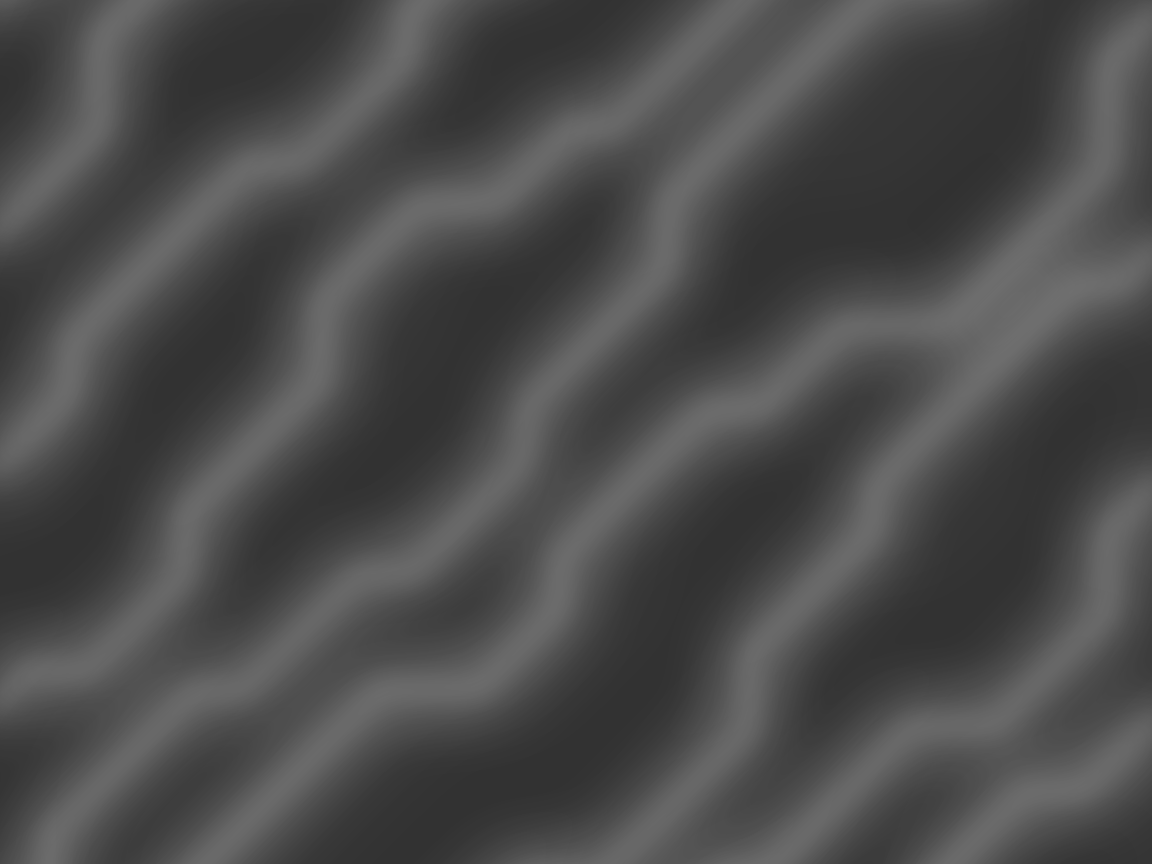
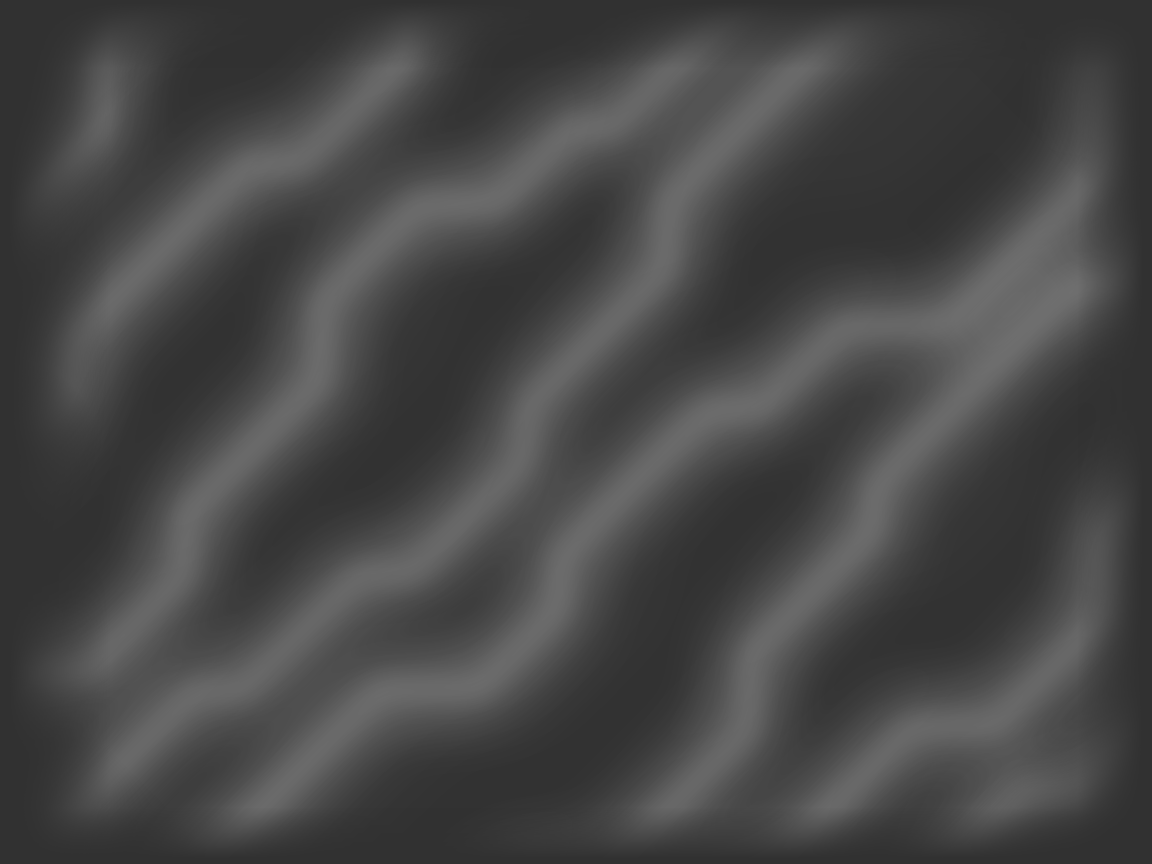
fixed background

diff --git a/lib/tile.js b/lib/tile.js
@@ -200,24 +200,17 @@ Carre.Tile = {
    * @return void
    */
   drawBackdrop : function(x, y) {
-    /*
-    if (x < 0) {
-      x = 0;
-    }
-    if (y < 0) {
-      y = 0;
-    }
-    */
     if (Carre.settings.quality === "HQ") {
-      for (var i = 0; i < this.backdrop.length; i++) {
-        Carre.c.drawImage(this.backdrop[i], Carre.settings.width/2-x/(i+2), -y/(i+2), Carre.settings.width, Carre.settings.height);
-      }
-      Carre.c.drawImage(this.cpu, Carre.settings.width/2-x/5, Carre.settings.Height/2-y/5, Carre.settings.width, Carre.settings.height);
-      Carre.c.drawImage(this.vignette, 0, 0, Carre.settings.width, Carre.settings.height);
-    } else {
-      //Carre.c.drawImage(this.backdroplq, x/2, y/2, Carre.settings.width, Carre.settings.height, 0, 0, Carre.settings.width, Carre.settings.height);
+      Carre.c.fillStyle = "rgb(50,50,50)";
       Carre.c.fillRect(0,0,800,600);
-      Carre.c.drawImage(this.backdroplq, Carre.settings.width/2-x/5, -y/5, Carre.settings.width, Carre.settings.height);
+      for (var i = 0; i < this.backdrop.length; i++) {
+        Carre.c.drawImage(this.backdrop[i],  0, 0, this.backdrop[i].width, this.backdrop[i].height, -x/(i+1), -200-y/(i+1), Carre.settings.width*2, Carre.settings.height*2);
+      }
+      Carre.c.drawImage(this.cpu, 0, 0, this.cpu.width, this.cpu.height, 200-x/2, -y/2, this.cpu.width, this.cpu.height);
+      Carre.c.drawImage(this.vignette, 0, 0, this.vignette.width, this.vignette.height, 0, 0, Carre.settings.width, Carre.settings.height);
+    } else {
+      Carre.c.fillRect(0,0,800,600);
+      Carre.c.drawImage(this.backdroplq, 0, 0, this.backdroplq.width, this.backdroplq.height, -150-x/4, -300-y/4, Carre.settings.width*2, Carre.settings.height*2);
     }
   },
 
